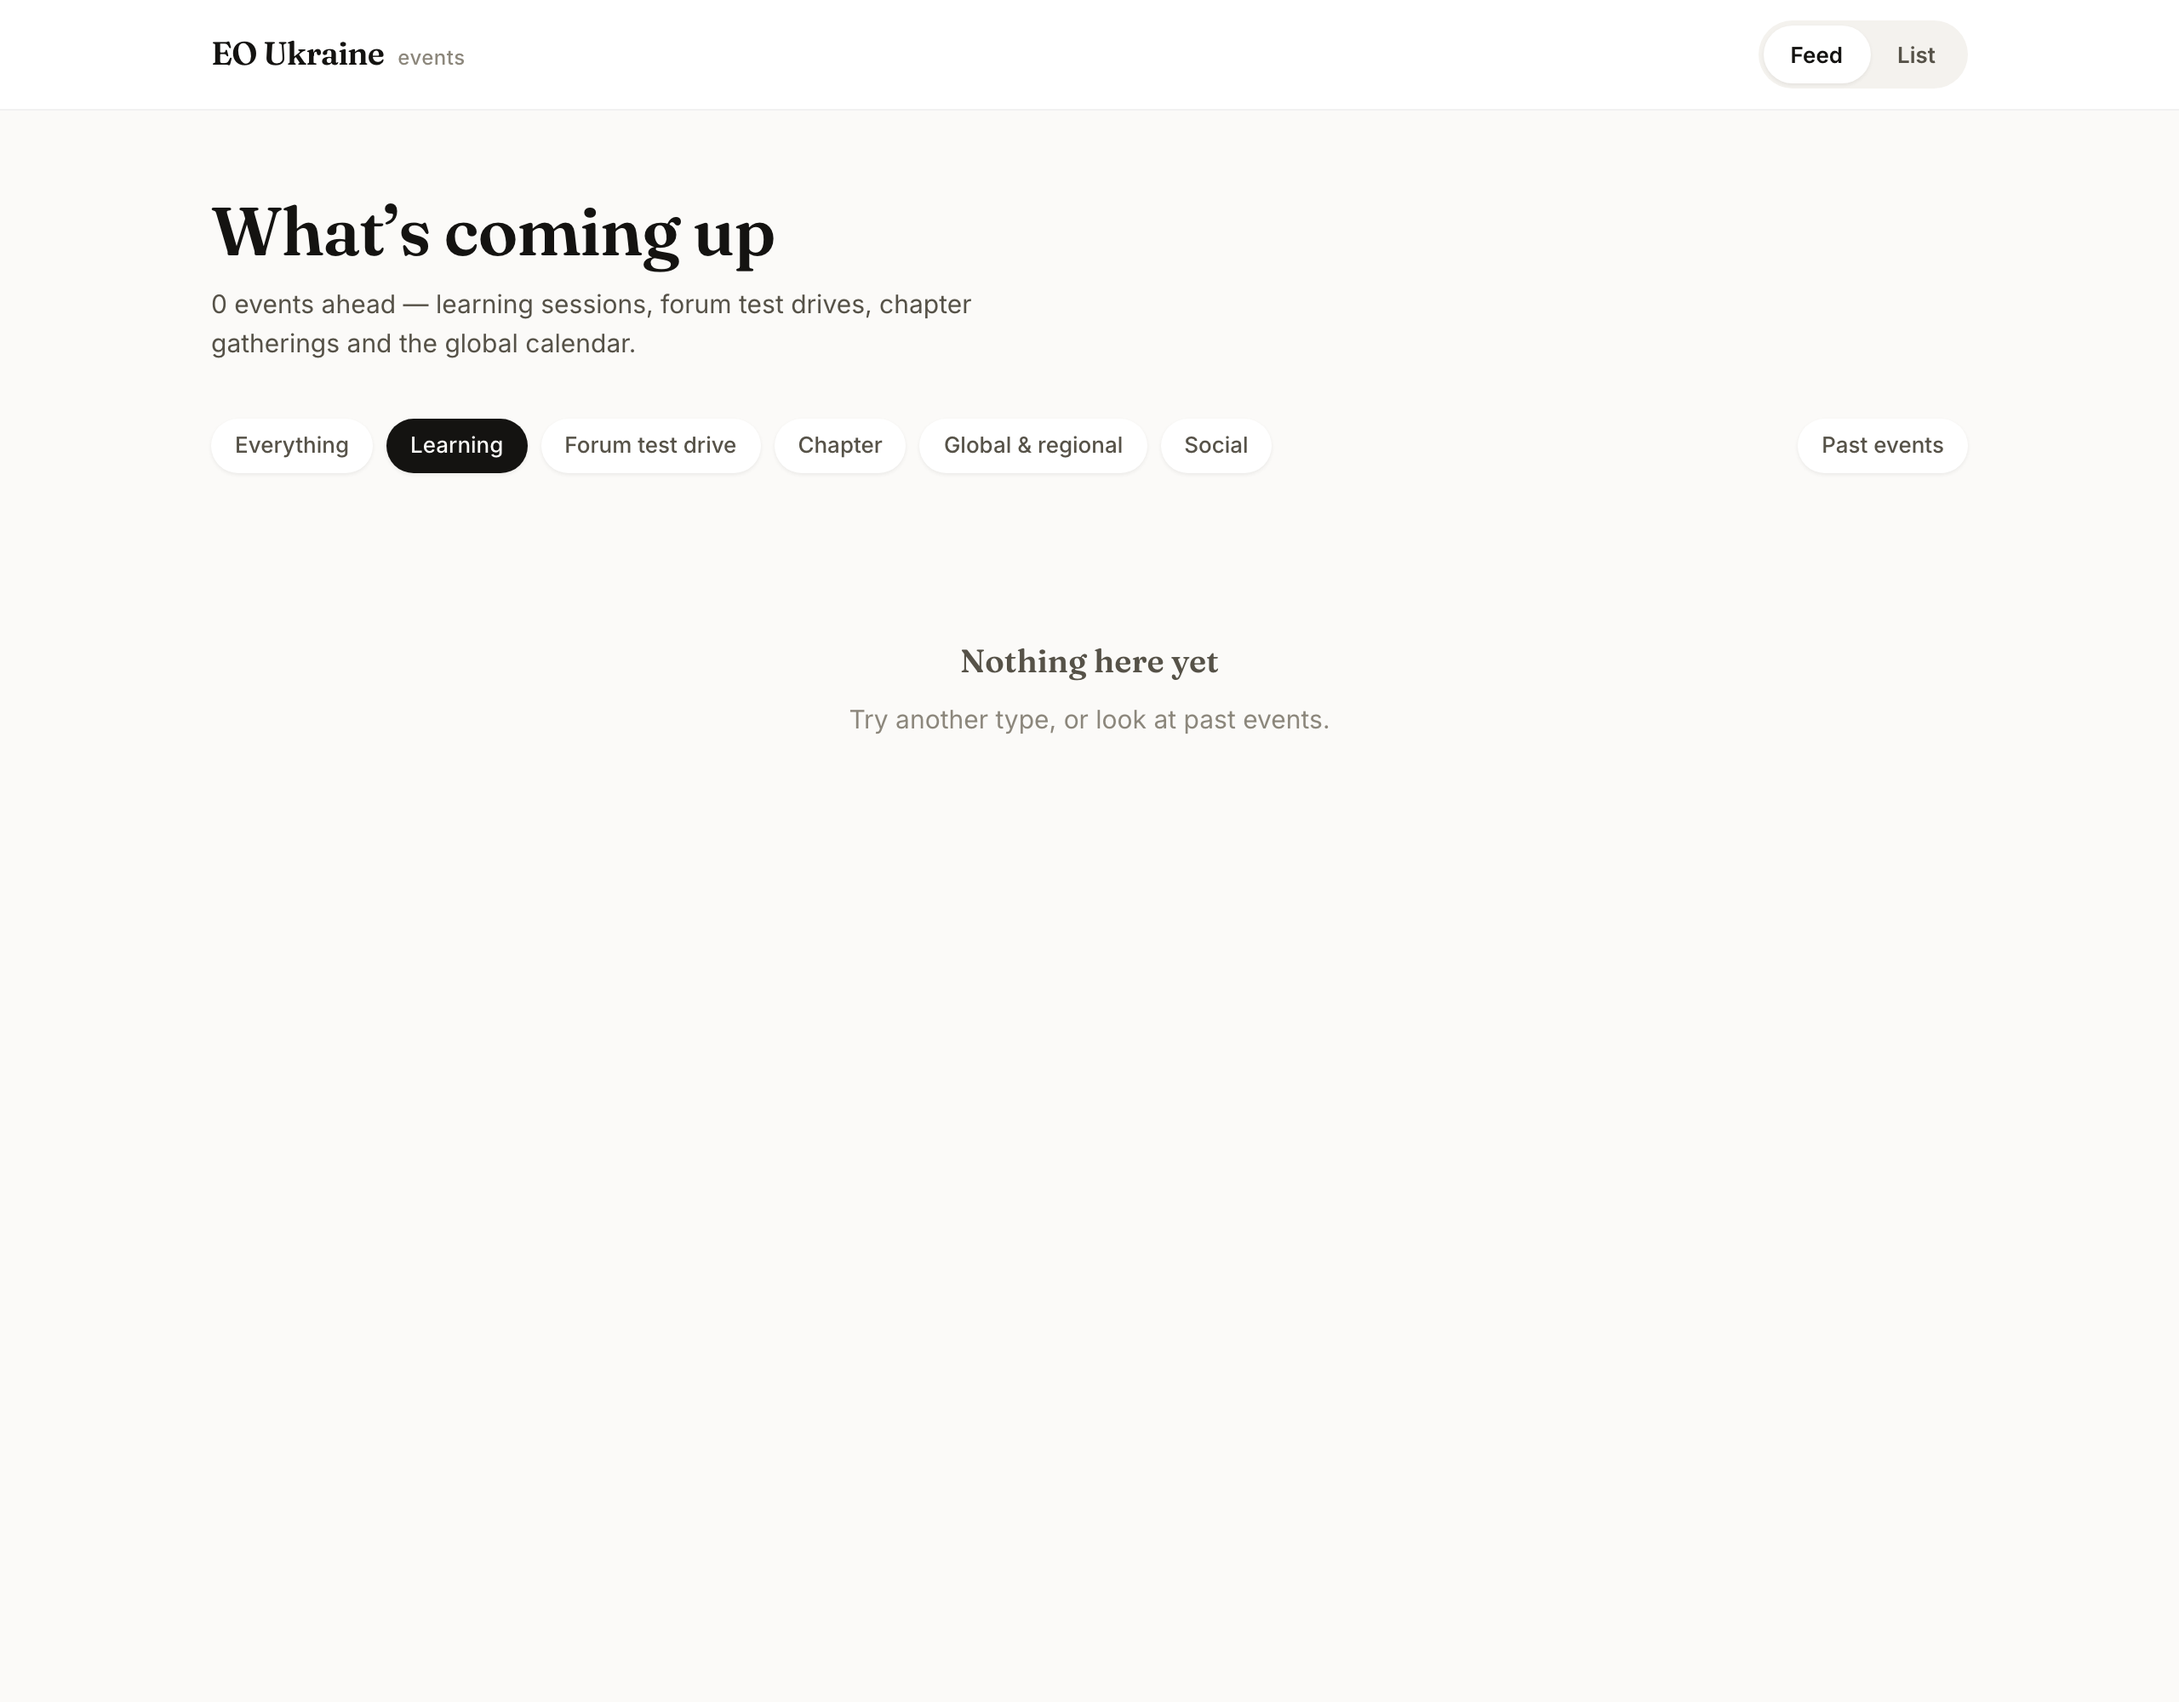
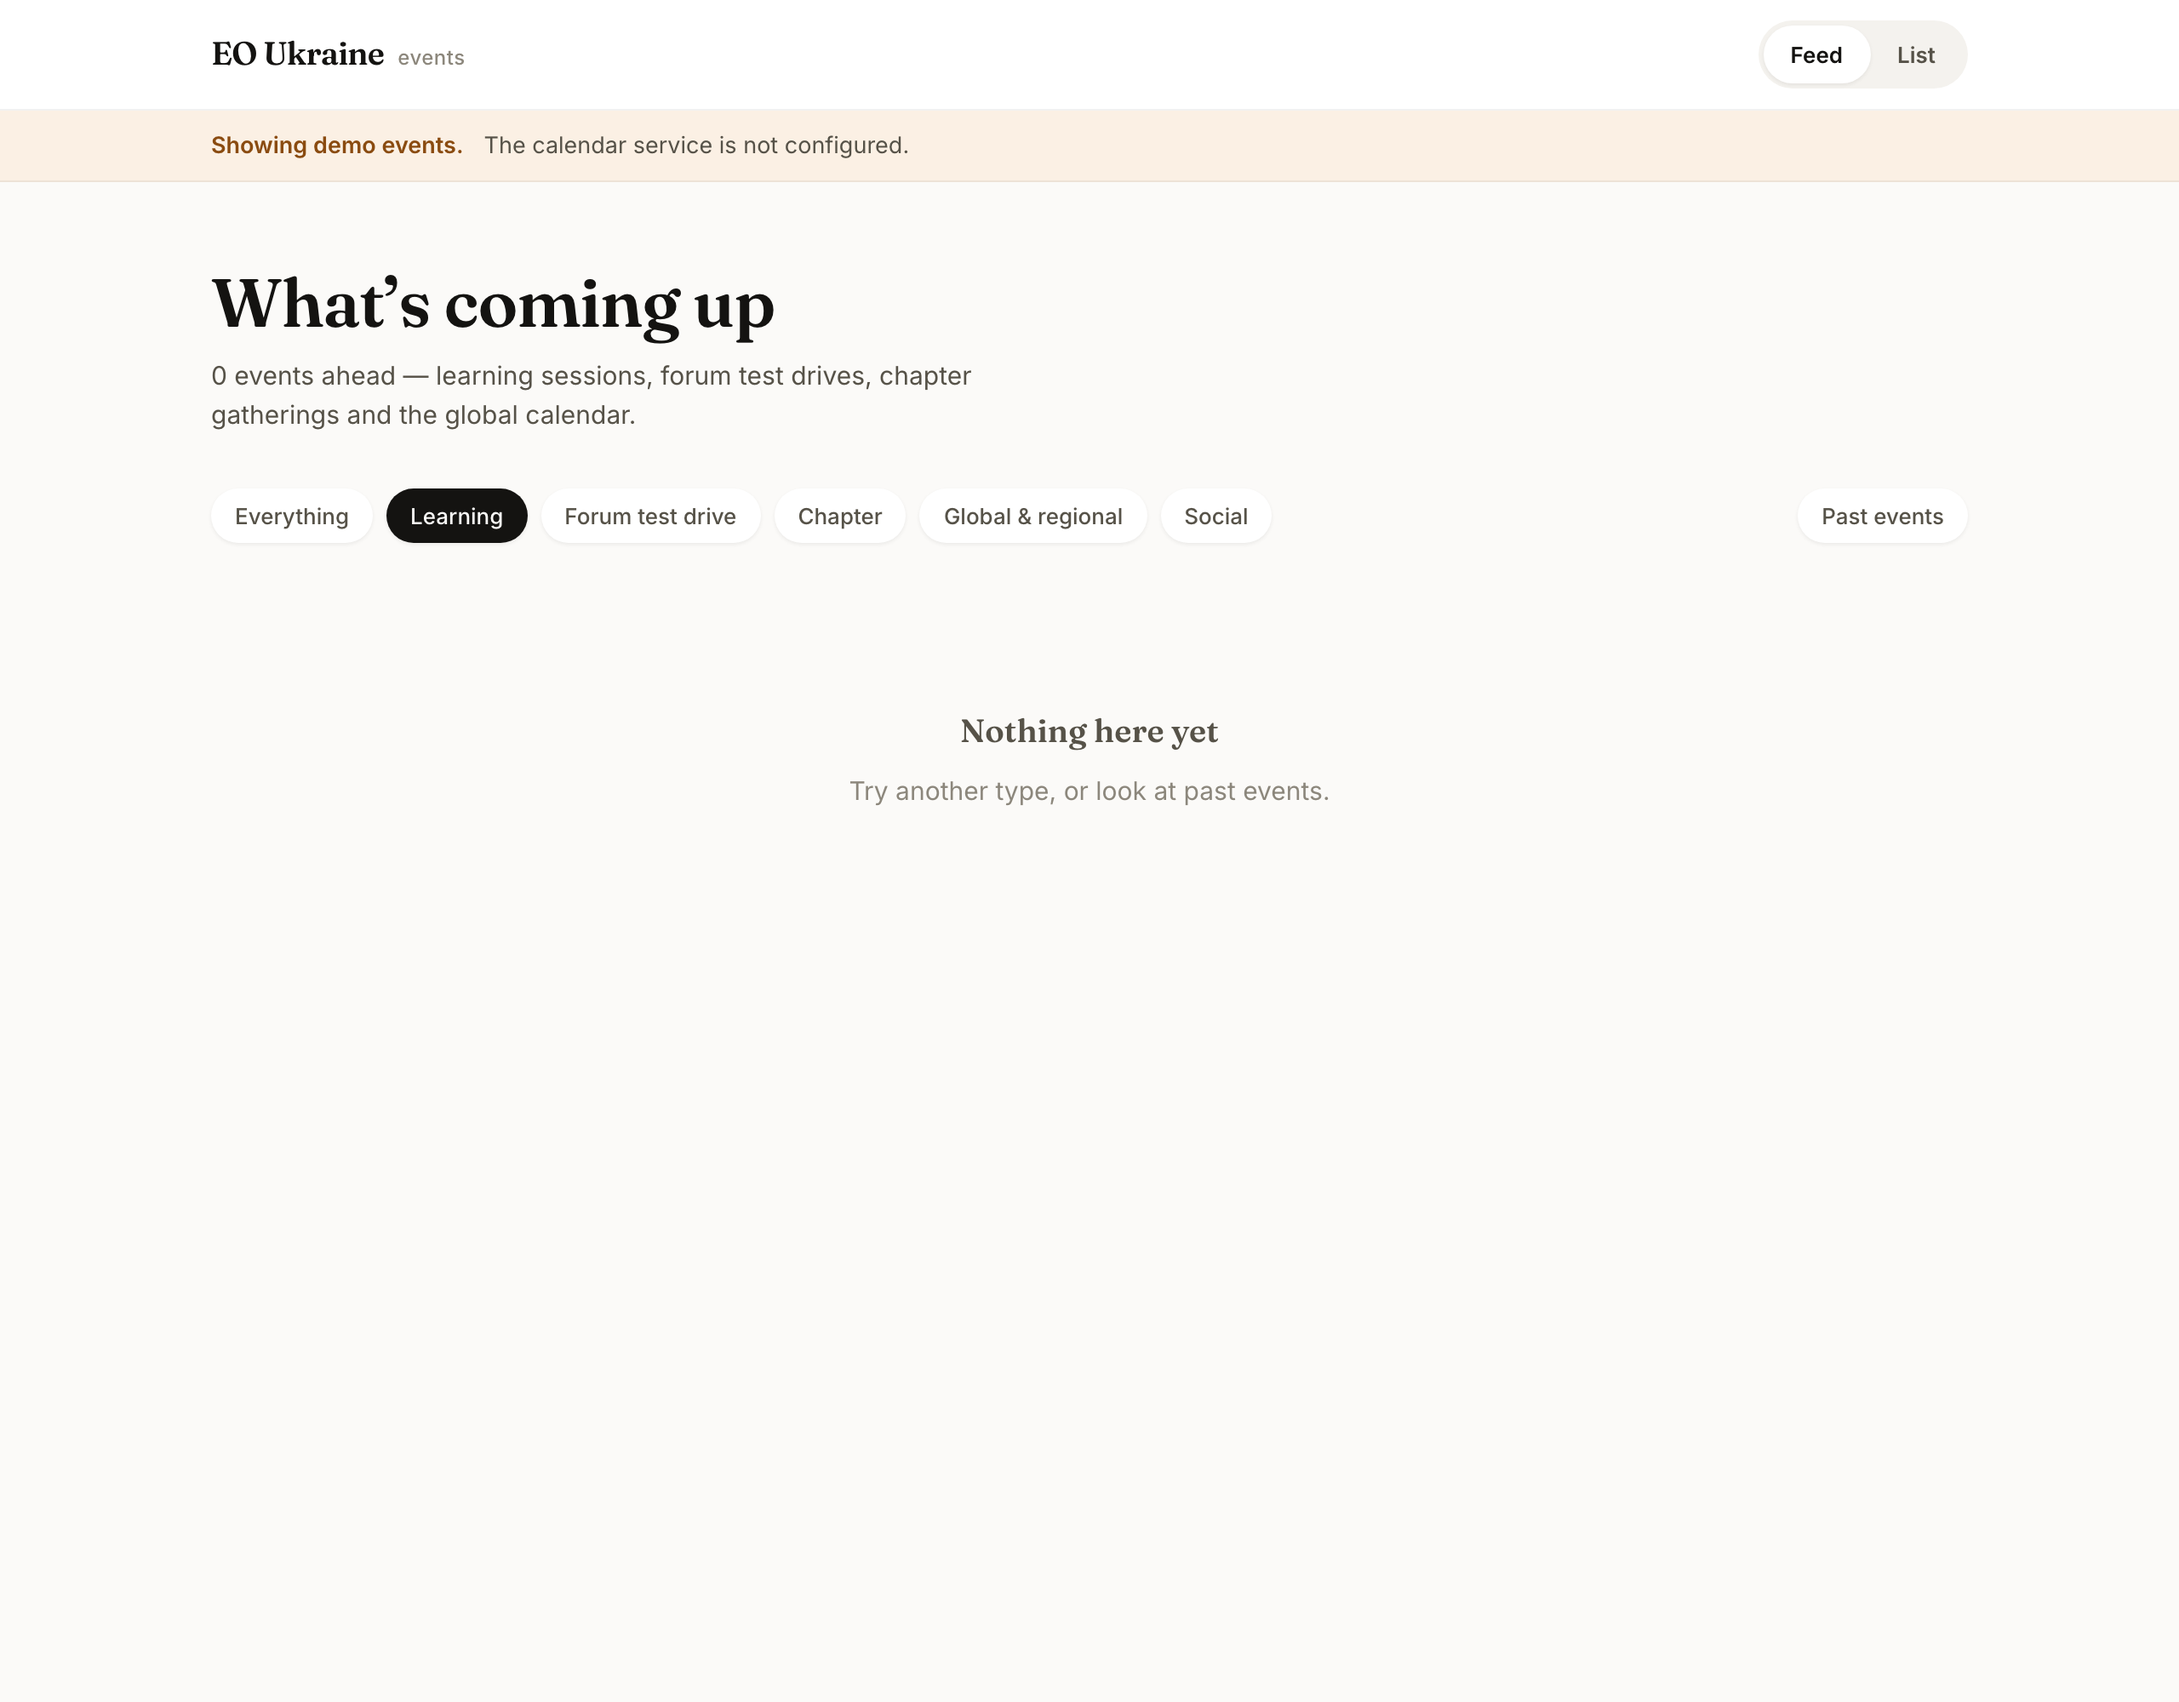
Add DEMO, a switch that pins the site to the demo calendar
DEMO=1 serves the demo events and does not contact Google at all: no key read,
no token requested, nothing leaves the server. It is checked before anything
else, so it holds with full credentials present and equally on a machine with
none - which is what makes it usable for a demo, a rehearsal, or while the sheet
is being restructured.

DEMO=0, or unset, reads the live sheet and still falls back to the demo calendar
if that fails, which is the behaviour that was already there.

The banner distinguishes the two. A deliberate demo reads "Demo calendar" in
neutral grey; a failed read keeps the amber "Showing demo events" and names the
reason. Saying the same thing for both would hide a broken sheet behind a
message that looks intentional.

Seven assertions cover it, including a trip-wire that counts outbound requests
and fails if demo mode makes even one.

diff --git a/public/src/main.js b/public/src/main.js
@@ -36,13 +36,21 @@ const shell = (route) => `
  * would reasonably conclude the site is fine, and the broken sheet would go unnoticed for
  * weeks. It names the reason, because "something went wrong" is not actionable.
  */
-const demoNotice = () => (source.kind !== 'mock' ? '' : `
-  <div class="banner" role="status">
+const demoNotice = () => {
+  if (source.kind !== 'mock') return '';
+  // Demo mode is somebody's decision; a failed read is not. Saying the same thing for both
+  // would hide a broken sheet behind a message that looks intentional.
+  const chosen = source.reason === 'demo';
+  return `
+  <div class="banner${chosen ? ' quiet' : ''}" role="status">
     <div class="wrap">
-      <b>Showing demo events.</b>
-      <span>${e(source.message || 'The live calendar could not be read from the sheet.')}</span>
+      <b>${chosen ? 'Demo calendar.' : 'Showing demo events.'}</b>
+      <span>${e(chosen
+        ? 'These are sample events, not the live chapter calendar.'
+        : source.message || 'The live calendar could not be read from the sheet.')}</span>
     </div>
-  </div>`);
+  </div>`;
+};
 
 const skeleton = `<div class="empty"><b>Loading the calendar…</b></div>`;
 

diff --git a/public/assets/css/components.css b/public/assets/css/components.css
@@ -318,3 +318,6 @@
 .banner .wrap{display:flex;gap:var(--sp-3);align-items:baseline;flex-wrap:wrap;
   padding-top:10px;padding-bottom:10px;font-size:13.5px;color:var(--ink-2)}
 .banner b{color:var(--warn,#8A4B10);font-weight:600}
+/* Demo mode was chosen, so the banner stays neutral rather than warning-coloured. */
+.banner.quiet{background:var(--surface-2);border-bottom:1px solid var(--rule-2)}
+.banner.quiet b{color:var(--ink)}

diff --git a/README.md b/README.md
@@ -46,11 +46,21 @@ Same names in both places. **Nothing here is ever read by browser code.**
 
 | Name | Cloudflare | Local |
 |---|---|---|
+| `DEMO` | `0` | `0` |
 | `GOOGLE_SERVICE_ACCOUNT_EMAIL` | secret | `.env` |
 | `GOOGLE_PRIVATE_KEY` | secret | `.env` |
 | `GOOGLE_SPREADSHEET_ID` | secret | `.env` |
 | `CLOUDFLARE_ON` | `1` | `0` |
 | `GOOGLE_SHEET_RANGE` | optional | optional |
+
+**`DEMO=1` pins the site to the demo calendar** and short-circuits Google entirely — no key is
+read, no token requested, nothing leaves the server. It works on a machine with no credentials
+at all, which makes it the right switch for a demo, a rehearsal, or while the sheet is being
+restructured. The banner then reads *"Demo calendar"* in neutral grey rather than the amber
+*"Showing demo events"* used for a failure, so a deliberate choice never looks like a fault.
+
+`DEMO=0`, or unset, reads the live sheet — and still falls back to the demo calendar if the
+sheet cannot be read.
 
 `CLOUDFLARE_ON` is **configuration, not a security boundary**. It is read server-side for the
 startup log only; the secrets are server-side either way, and no browser code depends on it.
